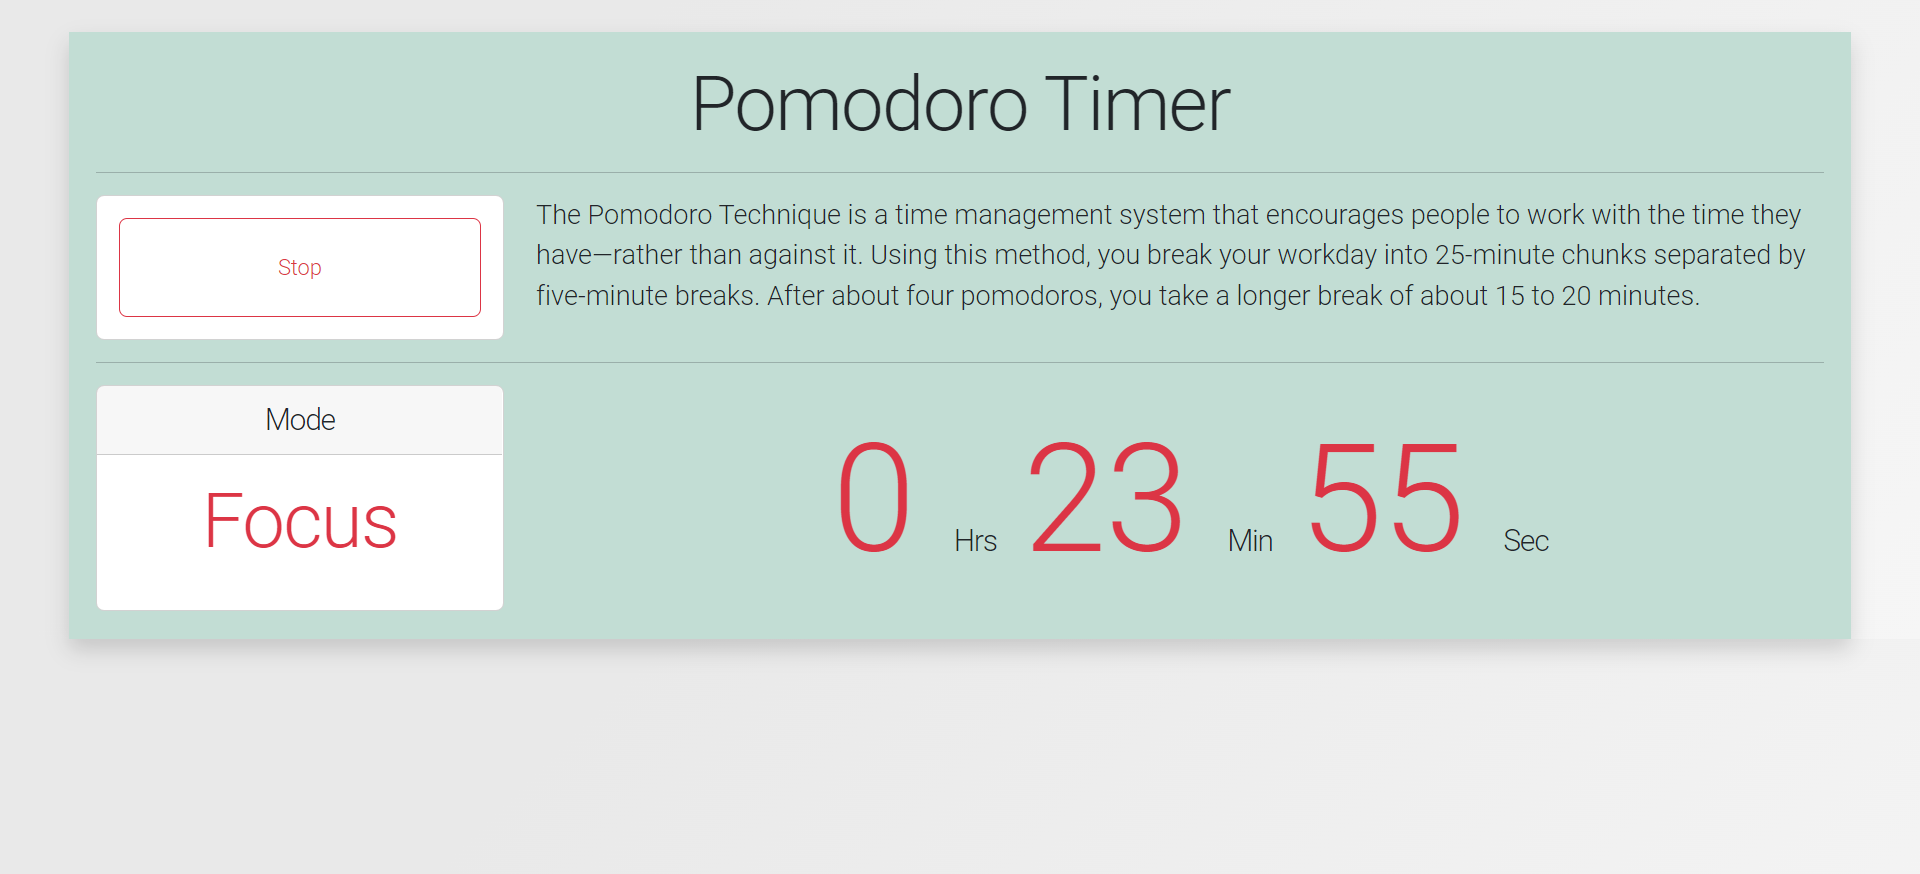
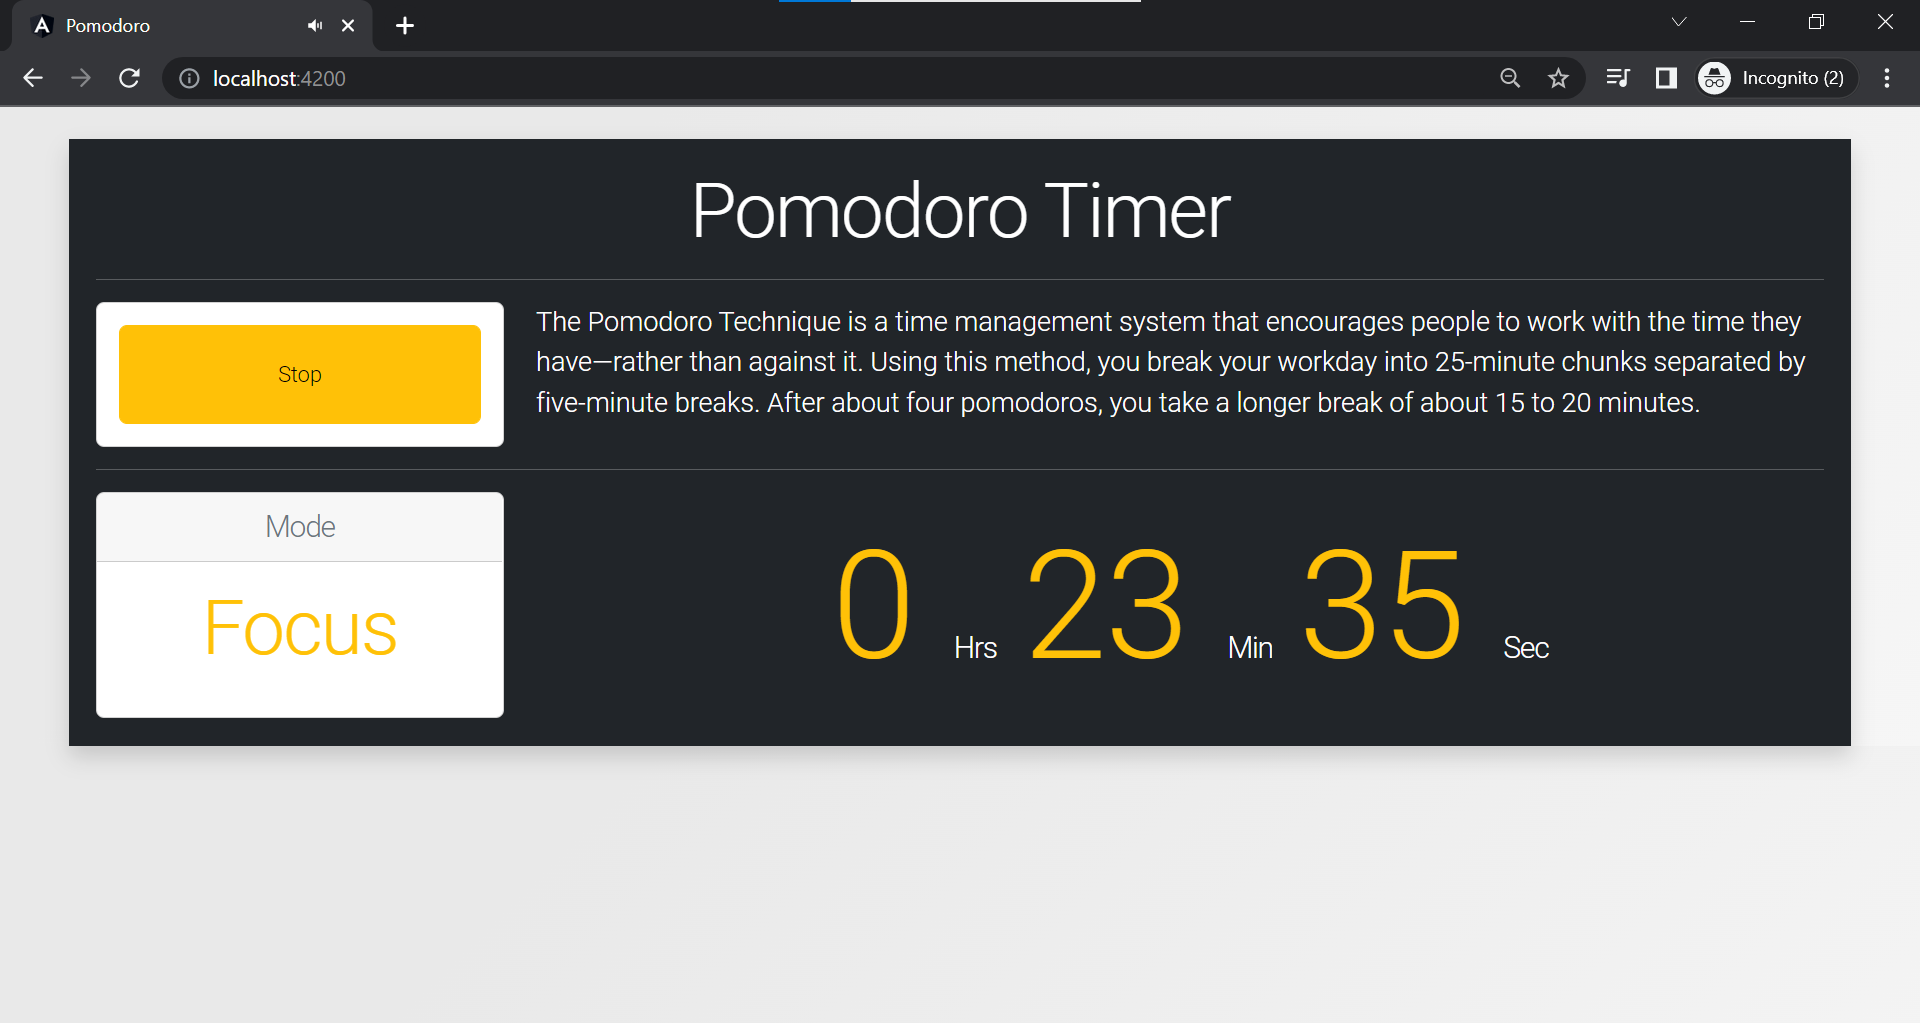
screen shot updated

diff --git a/src/app/pomodoro/pomodoro.component.html b/src/app/pomodoro/pomodoro.component.html
@@ -1,4 +1,4 @@
-<div class="timer container shadow">
+<div class="timer container shadow bg-dark text-white">
 
     <p class="display-4 mb-2"> Pomodoro Timer </p>
     <hr>
@@ -6,8 +6,8 @@
         <div class="col-3">
             <div class="card bg-white text-white">
                 <div class="card-body">
-                    <button class="btn btn-light p-4 w-100" *ngIf="timeLabel=='R'" (click)="startWithPomodoroTechnique()"> Start </button>
-                    <button class="btn btn-outline-danger p-4 w-100" *ngIf="timeLabel=='F'" (click)="stopWithPomodoroTechnique()"> Stop </button>
+                    <button class="btn btn-outline-dark p-4 w-100" *ngIf="timeLabel=='R'" (click)="startWithPomodoroTechnique()"> Start </button>
+                    <button class="btn btn-warning p-4 w-100" *ngIf="timeLabel=='F'" (click)="stopWithPomodoroTechnique()"> Stop </button>
                 </div>
             </div>
         </div>
@@ -23,20 +23,20 @@
     <div class="row">
         <div class="col-3">
             <div class="card bg-white">
-                <div class="card-header">
+                <div class="card-header text-muted">
                     Mode
                 </div>
                 <div class="card-body">
                     <p id="label" class="display-4 text-muted" *ngIf="timeLabel=='R'"> Relax</p>
-                    <p id="label" class="display-4 text-danger" *ngIf="timeLabel=='F'"> Focus</p>
+                    <p id="label" class="display-4 text-warning" *ngIf="timeLabel=='F'"> Focus</p>
                 </div>
             </div>
         </div>
         <div class="col-9">
-            <!-- <span id="days" [ngClass]="timeLabel=='F' ? 'text-danger' : 'text-muted'"> {{daysToDday}} </span>Day(s)-->
-            <span id="hours" [ngClass]="timeLabel=='F' ? 'text-danger' : 'text-muted'"> {{hoursToDday ? hoursToDday : 0}} </span>Hrs 
-            <span id="minutes" [ngClass]="timeLabel=='F' ? 'text-danger' : 'text-muted'"> {{minutesToDday ? minutesToDday : 0}} </span>Min
-            <span id="seconds" [ngClass]="timeLabel=='F' ? 'text-danger' : 'text-muted'"> {{secondsToDday ? secondsToDday : 0}} </span>Sec
+            <!-- <span id="days" [ngClass]="timeLabel=='F' ? 'text-warning' : 'text-muted'"> {{daysToDday}} </span>Day(s)-->
+            <span id="hours" [ngClass]="timeLabel=='F' ? 'text-warning' : 'text-muted'"> {{hoursToDday ? hoursToDday : 0}} </span>Hrs 
+            <span id="minutes" [ngClass]="timeLabel=='F' ? 'text-warning' : 'text-muted'"> {{minutesToDday ? minutesToDday : 0}} </span>Min
+            <span id="seconds" [ngClass]="timeLabel=='F' ? 'text-warning' : 'text-muted'"> {{secondsToDday ? secondsToDday : 0}} </span>Sec
         </div>
     </div>
 </div>

diff --git a/src/index.html b/src/index.html
@@ -2,7 +2,7 @@
 <html lang="en">
 <head>
   <meta charset="utf-8">
-  <title>NgTimerApp</title>
+  <title>Pomodoro</title>
   <base href="/">
   <meta name="viewport" content="width=device-width, initial-scale=1">
   <link rel="icon" type="image/x-icon" href="favicon.ico">

diff --git a/src/app/pomodoro/pomodoro.component.css b/src/app/pomodoro/pomodoro.component.css
@@ -2,7 +2,6 @@
     text-align: center;
     font-size: 1.4em;
     letter-spacing: -1px;
-    background-color: #c2ddd4;
     padding: 20px;
 }
 .timer span {
